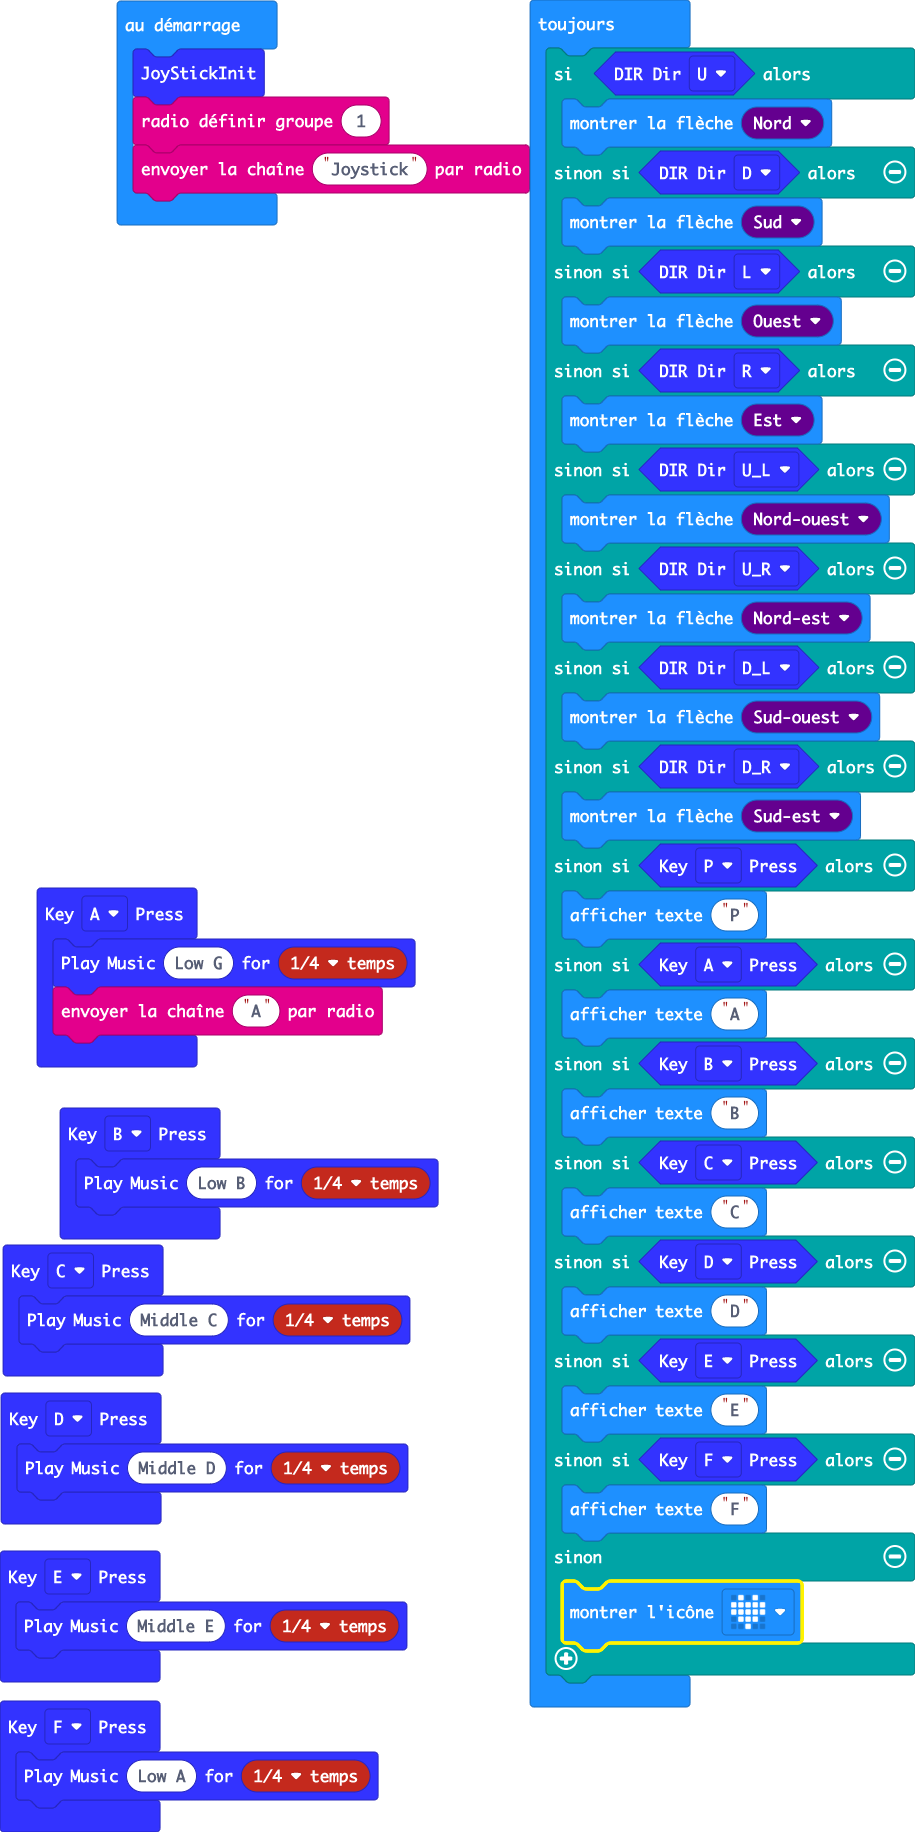
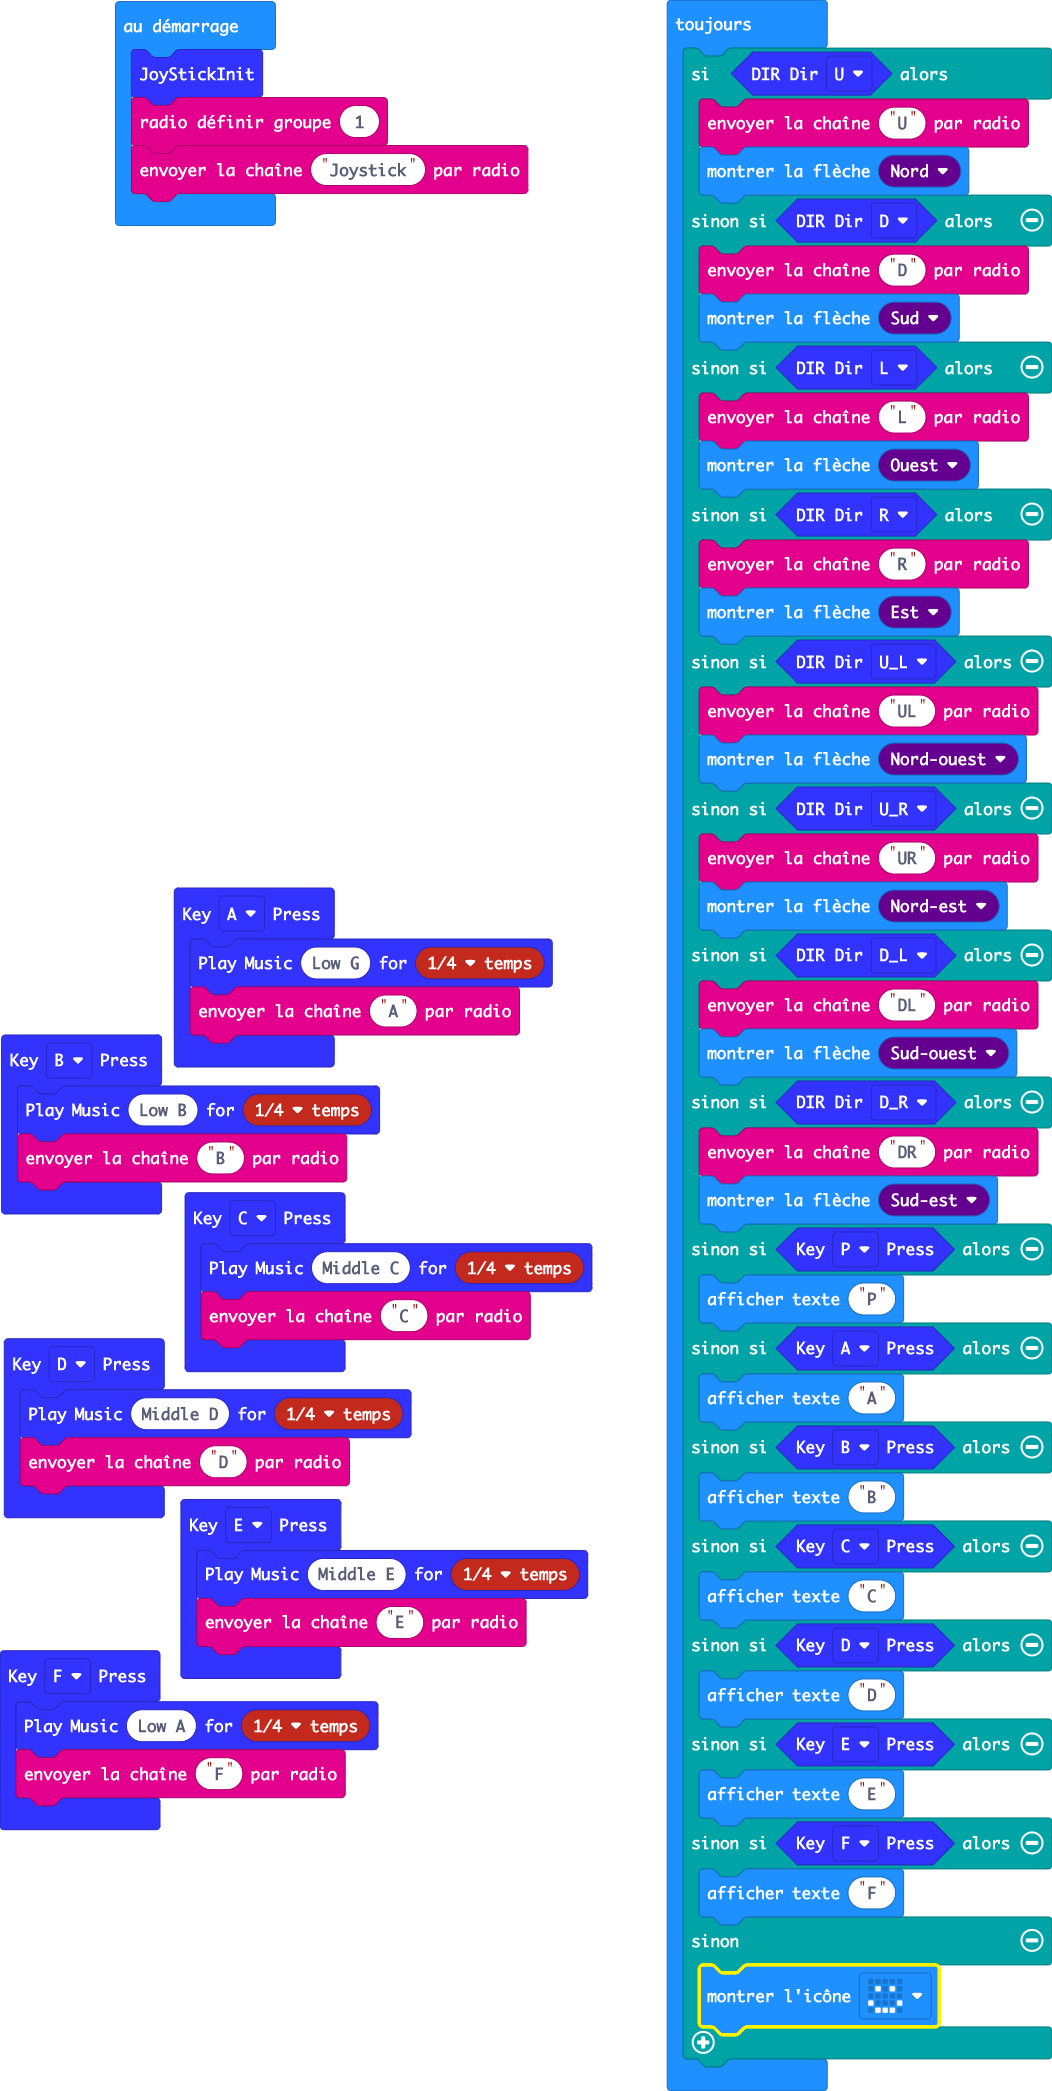
Bonne version pour faire des tests - Tous les ordres sont transmit - Warn affichage

diff --git a/main.ts b/main.ts
@@ -1,5 +1,6 @@
 WSJoyStick.onKey(KEY.F, function () {
     WSJoyStick.PlayMusic(220, music.beat(BeatFraction.Quarter))
+    radio.sendString("F")
 })
 WSJoyStick.onKey(KEY.A, function () {
     WSJoyStick.PlayMusic(196, music.beat(BeatFraction.Quarter))
@@ -7,35 +8,47 @@ WSJoyStick.onKey(KEY.A, function () {
 })
 WSJoyStick.onKey(KEY.E, function () {
     WSJoyStick.PlayMusic(330, music.beat(BeatFraction.Quarter))
+    radio.sendString("E")
 })
 WSJoyStick.onKey(KEY.D, function () {
     WSJoyStick.PlayMusic(294, music.beat(BeatFraction.Quarter))
+    radio.sendString("D")
 })
 WSJoyStick.onKey(KEY.B, function () {
     WSJoyStick.PlayMusic(247, music.beat(BeatFraction.Quarter))
+    radio.sendString("B")
 })
 WSJoyStick.onKey(KEY.C, function () {
     WSJoyStick.PlayMusic(262, music.beat(BeatFraction.Quarter))
+    radio.sendString("C")
 })
 WSJoyStick.JoyStickInit()
 radio.setGroup(1)
 radio.sendString("Joystick")
 basic.forever(function () {
     if (WSJoyStick.Listen_Dir(DIR.U)) {
+        radio.sendString("U")
         basic.showArrow(ArrowNames.North)
     } else if (WSJoyStick.Listen_Dir(DIR.D)) {
+        radio.sendString("D")
         basic.showArrow(ArrowNames.South)
     } else if (WSJoyStick.Listen_Dir(DIR.L)) {
+        radio.sendString("L")
         basic.showArrow(ArrowNames.West)
     } else if (WSJoyStick.Listen_Dir(DIR.R)) {
+        radio.sendString("R")
         basic.showArrow(ArrowNames.East)
     } else if (WSJoyStick.Listen_Dir(DIR.U_L)) {
+        radio.sendString("UL")
         basic.showArrow(ArrowNames.NorthWest)
     } else if (WSJoyStick.Listen_Dir(DIR.U_R)) {
+        radio.sendString("UR")
         basic.showArrow(ArrowNames.NorthEast)
     } else if (WSJoyStick.Listen_Dir(DIR.D_L)) {
+        radio.sendString("DL")
         basic.showArrow(ArrowNames.SouthWest)
     } else if (WSJoyStick.Listen_Dir(DIR.D_R)) {
+        radio.sendString("DR")
         basic.showArrow(ArrowNames.SouthEast)
     } else if (WSJoyStick.Listen_Key(KEY.P)) {
         basic.showString("P")
@@ -52,6 +65,6 @@ basic.forever(function () {
     } else if (WSJoyStick.Listen_Key(KEY.F)) {
         basic.showString("F")
     } else {
-        basic.showIcon(IconNames.Heart)
+        basic.showIcon(IconNames.Happy)
     }
 })
